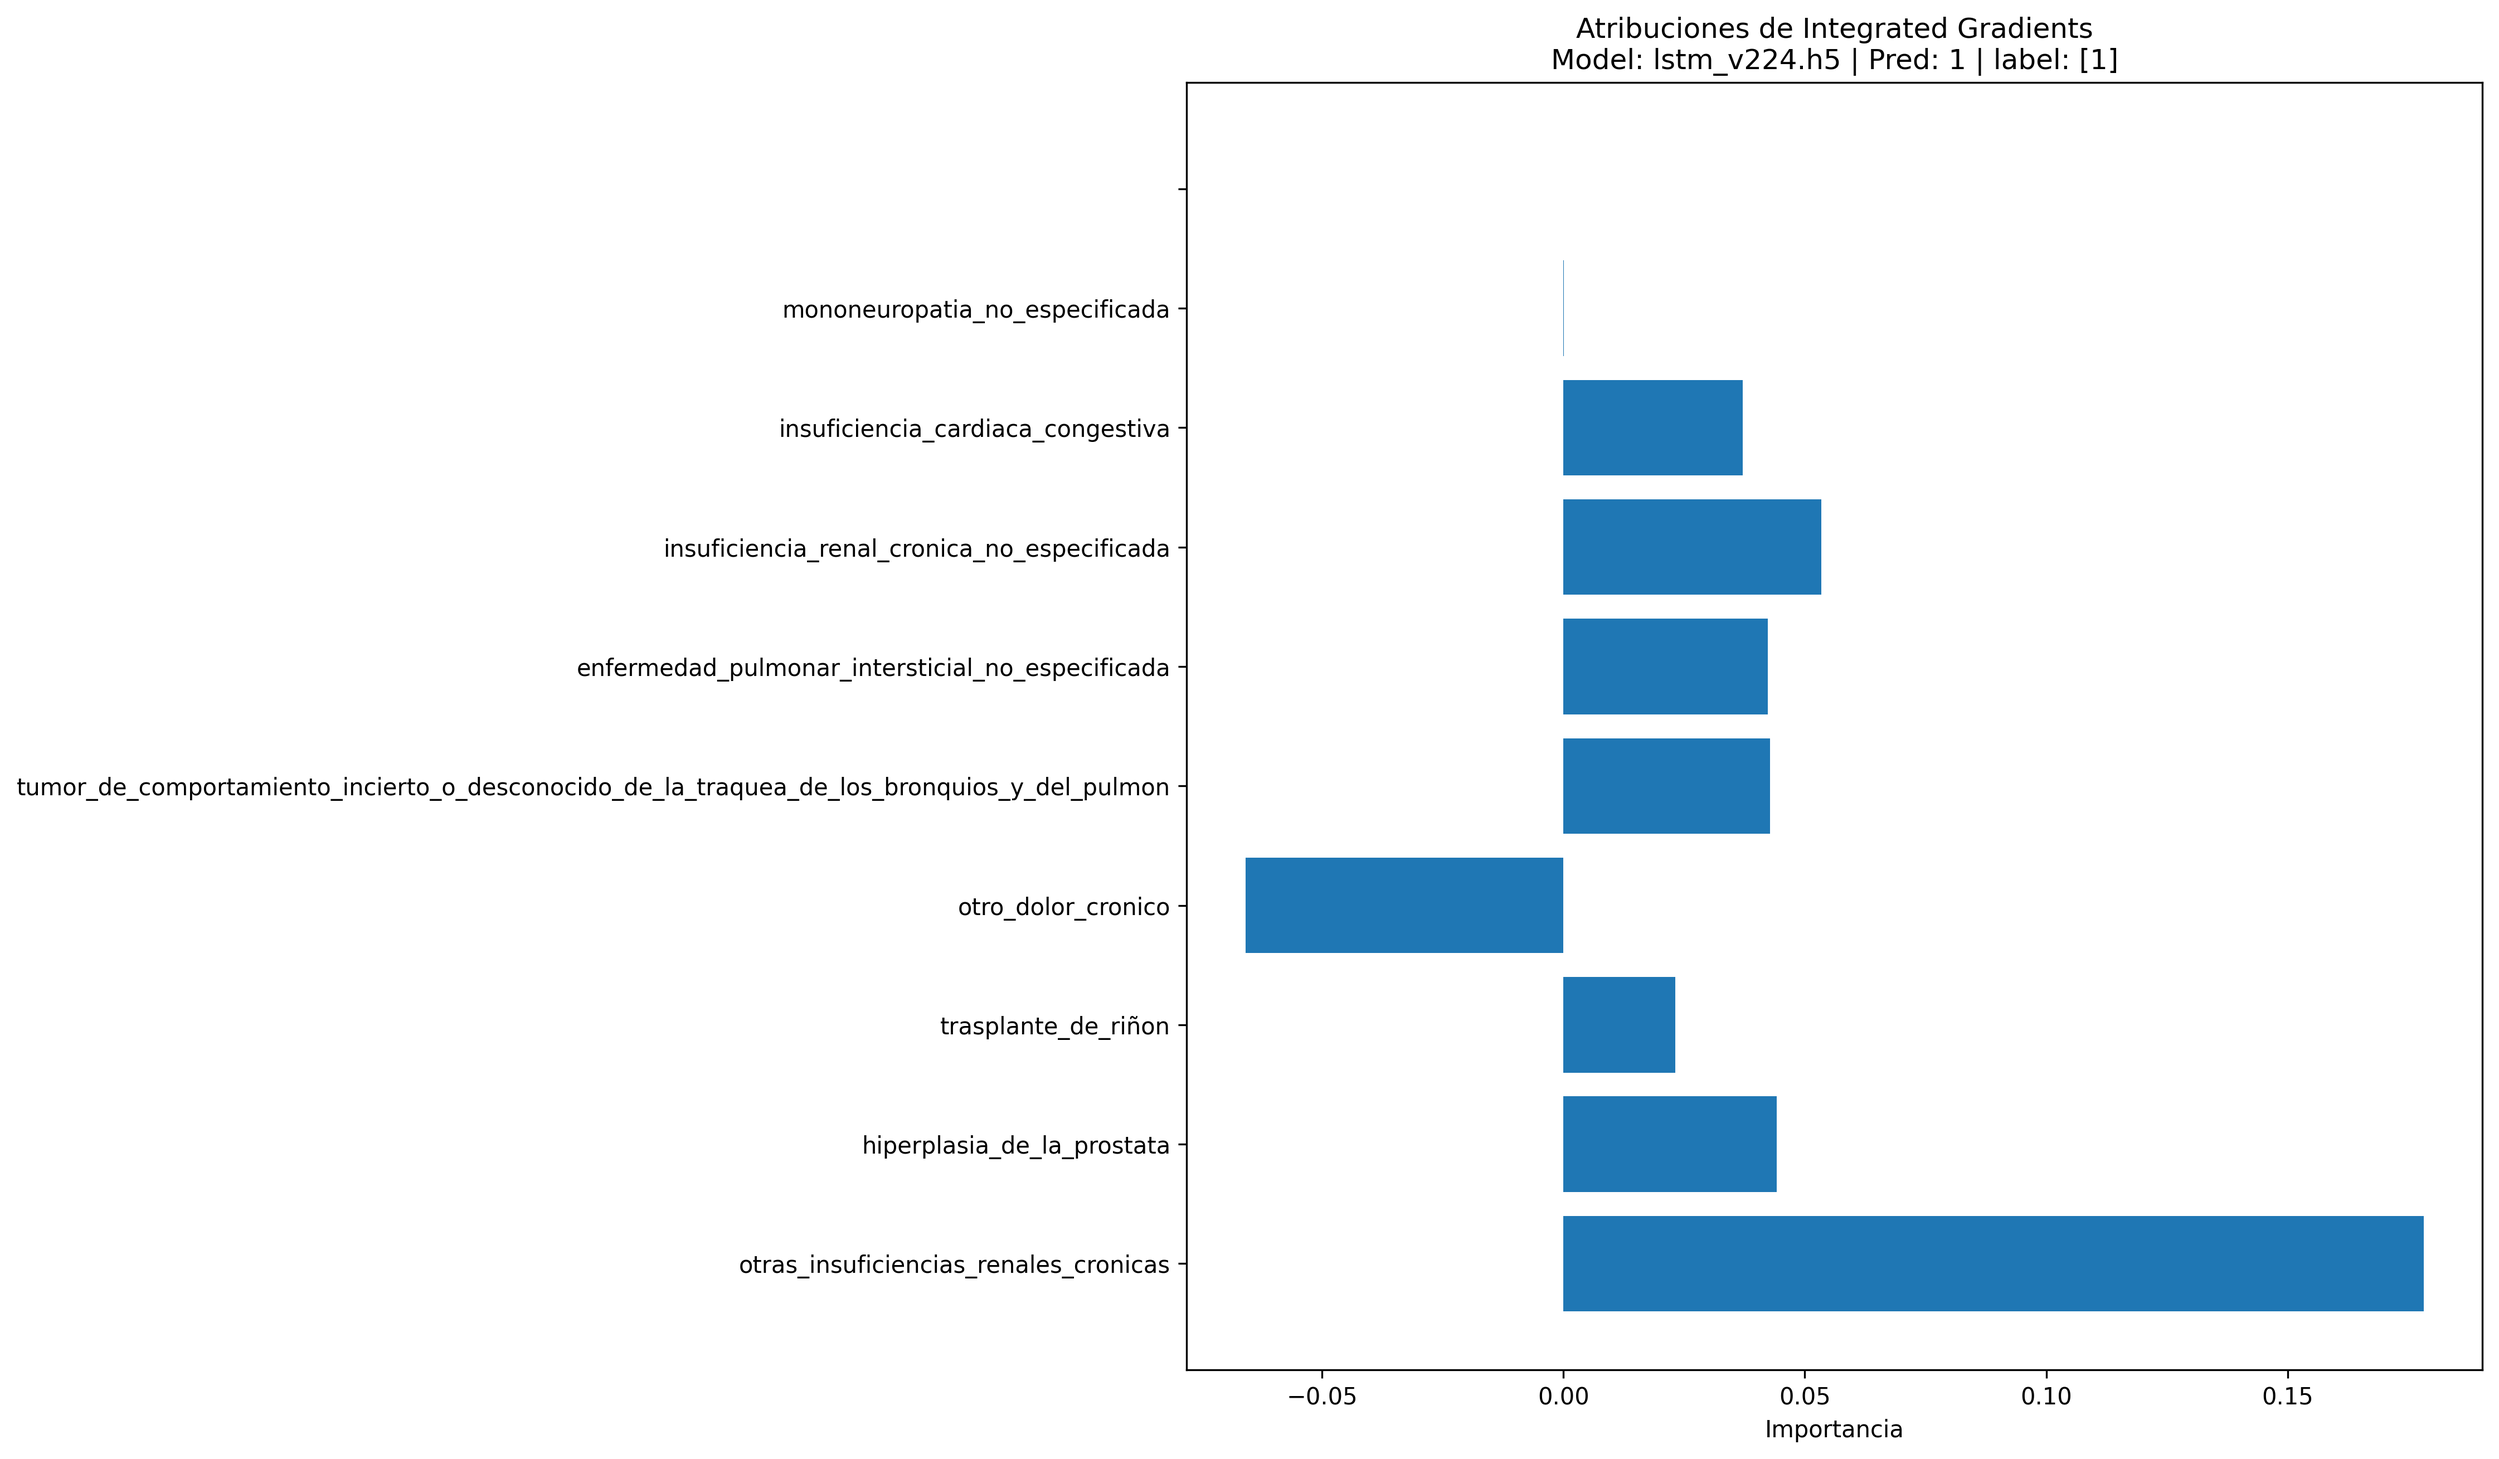
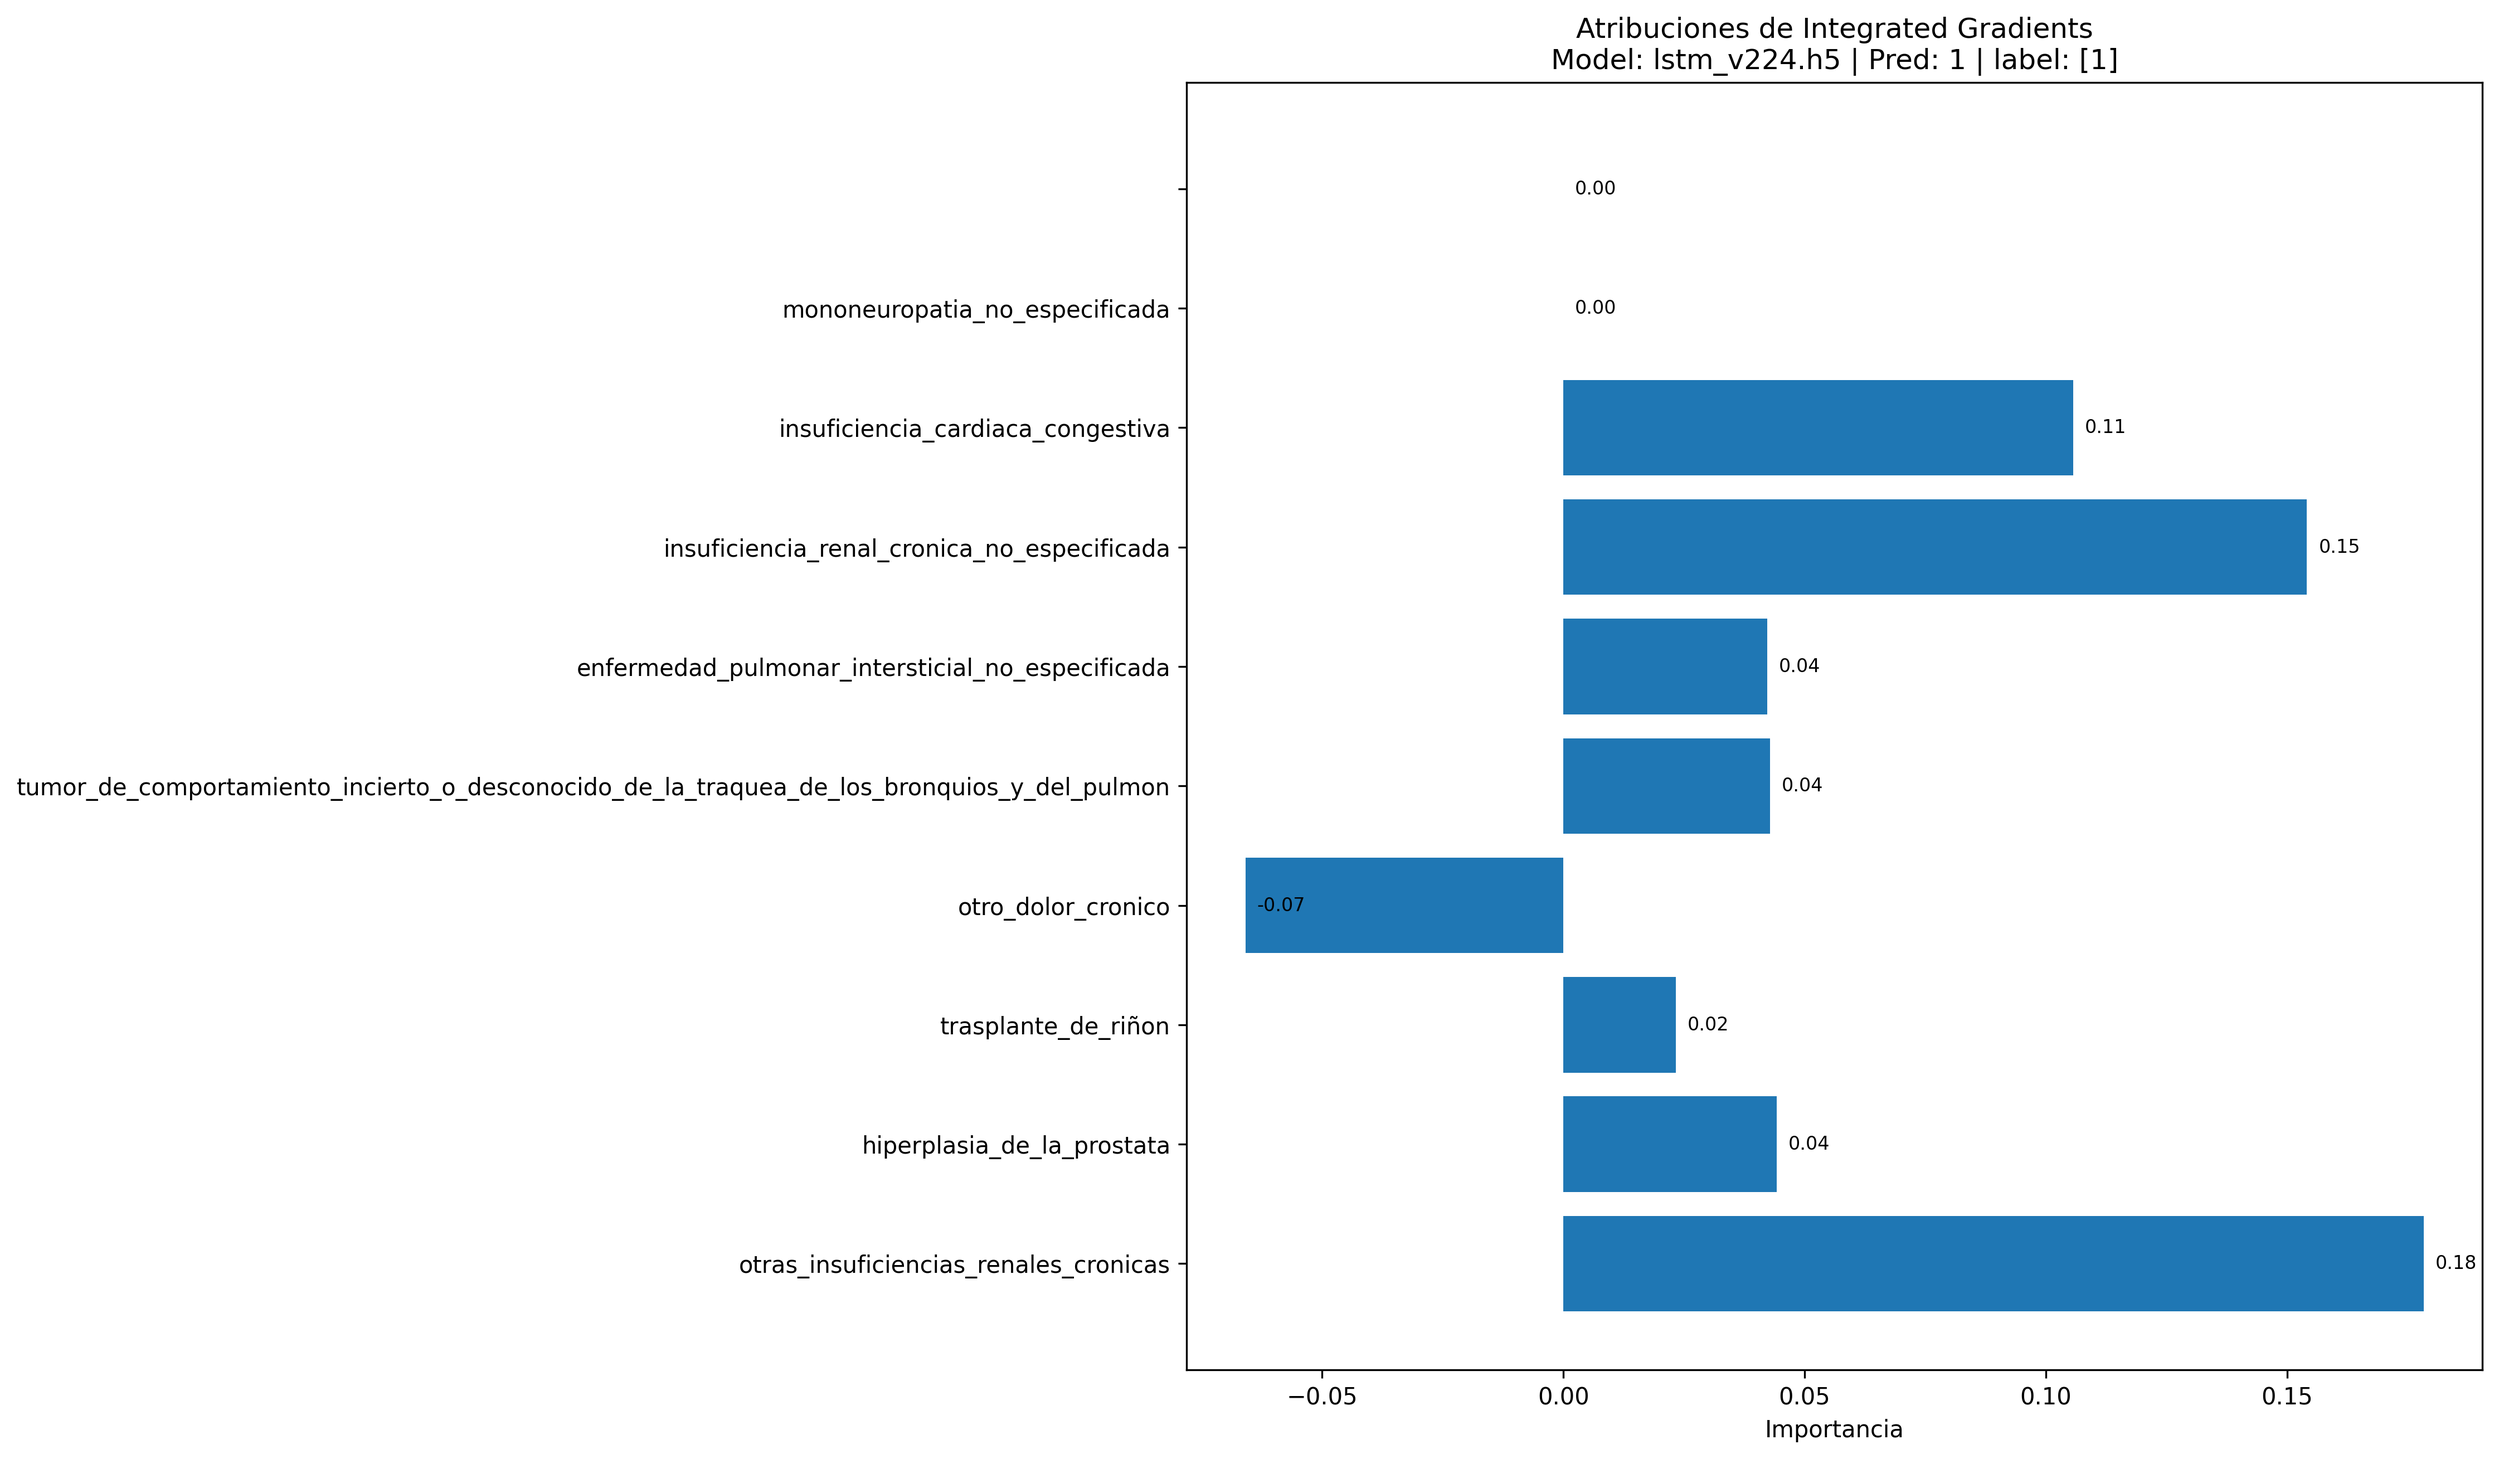
se ajustó para producir los gradientes de todas las predicciones

Changed region(s): [[0.6869, 0.2475, 0.9367, 0.4332]]

diff --git a/exp_lstm_v53.py b/exp_lstm_v53.py
@@ -91,11 +91,145 @@ def posiciones_de_uno(arr):
     """Devuelve las posiciones (índices) donde el valor es 1 en un array NumPy."""
     return np.where(arr == 1)[0]
 
+
+def sumar_por_valor(arr1, arr2):
+    """
+    Suma los valores de arr2 agrupados por el valor y posición correspondiente en arr1.
+    Retorna una lista de diccionarios con el valor de arr1 como clave y la suma de arr2 como valor.
+    Imprime k y v a medida que se agregan.
+    Ejemplo de retorno: [{k: suma}, ...]
+    """
+    if arr1.shape != arr2.shape:
+        raise ValueError("Los arreglos deben tener el mismo tamaño.")    
+    for k, v in zip(arr1, arr2):
+        encontrado = False
+        for d in lista_resultado:
+            if k in d:
+                d[k] += v
+                #print(f"Actualizando: {k} -> {d[k]}")
+                encontrado = True
+                break
+        if not encontrado:
+            lista_resultado.append({k: v})
+            #print(f"Agregando: {k} -> {v}")
+    return lista_resultado
+
+def importancia_acumulada(lista_diccionarios, nuevos_diccionarios):
+    """
+    Acumula la importancia de los valores de una lista de nuevos diccionarios en lista_diccionarios.
+    Si la clave ya existe, suma el valor; si no, la agrega.
+    Retorna la lista actualizada de diccionarios únicos.
+    """
+    # Convertir lista de diccionarios acumulados a un solo diccionario
+    acumulado = {}
+    for d in lista_diccionarios:
+        for k, v in d.items():
+            if k in acumulado:
+                acumulado[k] += v
+            else:
+                acumulado[k] = v
+    # Iterar sobre la lista de nuevos diccionarios y acumular
+    for d in nuevos_diccionarios:
+        for k, v in d.items():
+            if k in acumulado:
+                acumulado[k] += v
+            else:
+                acumulado[k] = v
+    # Convertir de nuevo a lista de diccionarios únicos
+    lista_resultado = [{k: acumulado[k]} for k in acumulado]
+    return lista_resultado
+
+def pintar_grafica_por_paciente(X_seq, token_imp, version, predictions, label, i):
+    """
+    Dibuja una gráfica de barras horizontales para las importancias de tokens de un paciente.
+    Muestra solo el valor sumado (por token único) al final de cada barra y guarda la imagen como archivo PNG.
+    """
+    import matplotlib.pyplot as plt
+
+    # Agrupar importancias por token único
+    from collections import defaultdict
+    suma_por_token = defaultdict(float)
+    for token, imp in zip(X_seq, token_imp):
+        suma_por_token[token] += imp
+
+    tokens_unicos = list(suma_por_token.keys())
+    importancias_sumadas = [suma_por_token[token] for token in tokens_unicos]
+
+    print("pintando la grafica")
+    fig, ax = plt.subplots(figsize=(10, 10))
+    bars = ax.barh(tokens_unicos, importancias_sumadas)
+    ax.set_xlabel('Importancia')
+    ax.set_title(f'Atribuciones de Integrated Gradients\nModel: {version} | Pred: {predictions} | label: {label}')
+
+    # Añadir solo el valor sumado al final de cada barra
+    for bar, suma in zip(bars, importancias_sumadas):
+        width = bar.get_width()
+        ax.annotate(f'{suma:.2f}',
+                    xy=(width, bar.get_y() + bar.get_height() / 2),
+                    xytext=(5, 0),
+                    textcoords="offset points",
+                    va='center',
+                    fontsize=8)
+
+    nombre_grafica = f"grafica_{version}_{i}.png"
+    print("nombre grafica:", nombre_grafica)
+    plt.savefig(nombre_grafica, dpi=300, bbox_inches='tight')
+    plt.close(fig)
+
+def graficar_lista_diccionarios(lista_diccionarios, titulo="Importancia acumulada", nombre_grafica="grafica_acumulada.png", vocabulary=None, top_n=None):
+    """
+    Grafica una lista de diccionarios donde los keys son las etiquetas (x) y los values son los valores (y).
+    Los datos se muestran de menor a mayor y se puede limitar el número de elementos mostrados con top_n.
+    """
+    import matplotlib.pyplot as plt
+    import numpy as np
+
+    # Unir todos los diccionarios en uno solo para evitar duplicados
+    datos = {}
+    for d in lista_diccionarios:
+        for k, v in d.items():
+            datos[k] = v
+
+    # Ordenar los datos de menor a mayor valor
+    datos_ordenados = sorted(datos.items(), key=lambda item: item[1])
+
+    # Si se especifica top_n, tomar solo los últimos top_n elementos (los de mayor valor)
+    if top_n is not None:
+        datos_ordenados = datos_ordenados[-top_n:]
+
+    etiquetas = [k for k, v in datos_ordenados]
+    valores = [v for k, v in datos_ordenados]
+
+    # Convertir etiquetas si hay vocabulario
+    if vocabulary is not None:
+        etiquetas_n = convert_to_text(np.array(etiquetas).reshape(1, -1), vocabulary)
+    else:
+        etiquetas_n = etiquetas
+
+    fig, ax = plt.subplots(figsize=(10, 10))
+    bars = ax.barh(etiquetas_n, valores)
+    ax.set_xlabel('Importancia')
+    ax.set_title(titulo)
+
+    # Añadir el valor al final de cada barra
+    for bar, valor in zip(bars, valores):
+        width = bar.get_width()
+        ax.annotate(f'{valor:.2f}',
+                    xy=(width, bar.get_y() + bar.get_height() / 2),
+                    xytext=(5, 0),
+                    textcoords="offset points",
+                    va='center',
+                    fontsize=8)
+
+    plt.tight_layout()
+    plt.savefig(nombre_grafica, dpi=300, bbox_inches='tight')
+    plt.close(fig)
+    print(f"Gráfica guardada como {nombre_grafica}")
+
 if __name__ == "__main__":
     
     version = "lstm_v224.h5"
-    #145, 178, 171, 184
-    i = 187
+
     ruta_modelo = "./models/"+version
     ruta_performance = "/home/pajaro/compu_Pipe_V3/performance_zine/performance_report.csv"    
     
@@ -110,8 +244,11 @@ if __name__ == "__main__":
     print("folder_n:", folder_n)
 
     vocabulary = load_numpy_array(folder_n + "vocab.npy")
+    print("vocabulary size:", len(vocabulary))
     X_train = load_numpy_array(folder_n + "X_train.npy")
+    print("X_train shape:", X_train.shape)
     X_test = load_numpy_array(folder_n + "X_test.npy")
+    print("X_test shape:", X_test.shape)
     y_train = load_numpy_array(folder_n + "y_train.npy")
     y_test = load_numpy_array(folder_n + "y_test.npy")
     print("y_test", y_test)
@@ -124,63 +261,88 @@ if __name__ == "__main__":
     model.summary()
 
     #print(X_train[:10, :])
+
+    l_patient = [145, 178, 171, 184, 179, 187]
+    #l_patient = [145, 178]
+    #i = 187
+    l_patient = np.arange(len(X_train)).tolist()
+    lista_resultado = []
+
+    for i in l_patient:
+        print("i:", i)
+        X_sample = X_train[i:i+1, :]
+        print("X_sample shape:", X_sample.shape)    
+        predictions = model.predict(X_sample)
+        print("predictions shape:", predictions.shape)
+        print(predictions)
+        predictions = (predictions >= 0.5).astype(int)
+        predictions = predictions.item()
+        #predictions = predictions[1]
+        #print("pred:", predictions)
+        #print("pred shape:", predictions.shape)
+        #print("target:", y_train[i:i+1])
+        label = y_train[i:i+1]
+
+        t_pred = model.predict(X_train)
+        #t_pred = t_pred.argmax(axis=1)
+        t_pred = (t_pred >= 0.5).astype(int)
+        #print("t_pred:", t_pred)
+        print("t_pred shape:", t_pred.shape)
+        #print("t_pred count unique:", np.unique(t_pred, return_counts=True))
+
+        # 6. Ejecutar IG
+        embedding_layer = model.layers[0]
+        #embedding_layer = model.get_layer('embedding_1')
+        print("cargue de Integrated Gradients")
+        ig = load_model_ig(model, embedding_layer)
+        # 7. Explicación
+        base = np.zeros_like(X_sample, dtype=np.float32)
+        print("calculando la explicacion")    
+        explanation = ig.explain(X_sample, baselines=0, target=predictions)
+
+        # 7. Visualizar las atribuciones
+        print("calculando las atribuciones")
+        attributions = explanation.attributions[0]  # (100, embedding_dim)
+        print('Attributions shape:', attributions.shape)
+        token_importances = np.sum(attributions, axis=-1)  # suma por embedding
+        print('Token importances shape:', token_importances.shape)
+        # Asegurarse de que token_importances es un array 1D
+        token_imp = np.array(token_importances).flatten()
+        print('Token_imp shape:', token_imp.shape)
+        #attrs = attributions.sum(axis=2)
+        #print('Attrs shape:', attrs.shape)    
+        
+        print("X_sample", X_sample)
+        X_seq = convert_to_text(X_sample, vocabulary)
+        print("X_seq:", X_seq)
+        #print("X_seq type:", type(X_seq))
+        print("X_seq shape:", len(X_seq))
+        #print("X_seq set:", set(X_seq))
+        print("X_seq_set len:", len(set(X_seq)))    
+        #attrs = token_imp[i]
+
+        X_sample_f = X_sample.flatten()
+        print("X_sample_f:", X_sample_f.shape)
+        lista_resultado = sumar_por_valor(X_sample_f, token_imp)
+        print("l_phe_patient:", lista_resultado)        
+
+
+        """
+        print("pintando la grafica")
+        fig, ax = plt.subplots(figsize=(10, 10))
+        ax.barh(X_seq, token_imp)
+        ax.set_xlabel('Importancia')
+        ax.set_title(f'Atribuciones de Integrated Gradients\nModel: {version} | Pred: {predictions} | label: {label}')
+        print("nombre grafica:", "grafica_"+version+"_"+str(i)+".png")
+        plt.savefig("grafica_"+version+"_"+str(i)+".png", dpi=300, bbox_inches='tight')
+        #plt.show()
+        """
+
+        pintar_grafica_por_paciente(X_seq, token_imp, version, predictions, label, i)
+
+    graficar_lista_diccionarios(lista_resultado, titulo="Atribucion global de conceptos", nombre_grafica="grafica_fenotipos_importantes.png", vocabulary=vocabulary, top_n=20)
+
+
     
-    X_sample = X_train[i:i+1, :]
-    print("X_sample shape:", X_sample.shape)    
-    predictions = model.predict(X_sample)
-    print("predictions shape:", predictions.shape)
-    print(predictions)
-    predictions = (predictions >= 0.5).astype(int)
-    predictions = predictions.item()
-    #predictions = predictions[1]
-    print("pred:", predictions)
-    #print("pred shape:", predictions.shape)
-    print("target:", y_train[i:i+1])
-    label = y_train[i:i+1]
 
-    t_pred = model.predict(X_train)
-    #t_pred = t_pred.argmax(axis=1)
-    t_pred = (t_pred >= 0.5).astype(int)
-    #print("t_pred:", t_pred)
-    print("t_pred shape:", t_pred.shape)
-    print("t_pred count unique:", np.unique(t_pred, return_counts=True))
-
-    # 6. Ejecutar IG
-    embedding_layer = model.layers[0]
-    #embedding_layer = model.get_layer('embedding_1')
-    print("cargue de Integrated Gradients")
-    ig = load_model_ig(model, embedding_layer)
-    # 7. Explicación
-    base = np.zeros_like(X_sample, dtype=np.float32)
-    print("calculando la explicacion")    
-    explanation = ig.explain(X_sample, baselines=0, target=predictions)
-
-    # 7. Visualizar las atribuciones
-    print("calculando las atribuciones")
-    attributions = explanation.attributions[0]  # (100, embedding_dim)
-    print('Attributions shape:', attributions.shape)
-    token_importances = np.sum(attributions, axis=-1)  # suma por embedding
-    print('Token importances shape:', token_importances.shape)
-    # Asegurarse de que token_importances es un array 1D
-    token_imp = np.array(token_importances).flatten()
-    #attrs = attributions.sum(axis=2)
-    #print('Attrs shape:', attrs.shape)    
-
-    
-    print("X_sample", X_sample)
-    X_seq = convert_to_text(X_sample, vocabulary)
-    print("X_seq:", X_seq)
-    print("X_seq shape:", len(X_seq))
-    print("X_seq set:", set(X_seq))
-    #attrs = token_imp[i]
-
-
-    print("pintando la grafica")
-    fig, ax = plt.subplots(figsize=(10, 10))
-    ax.barh(X_seq, token_imp)
-    ax.set_xlabel('Importancia')
-    ax.set_title(f'Atribuciones de Integrated Gradients\nModel: {version} | Pred: {predictions} | label: {label}')
-    print("nombre grafica:", "grafica_"+version+"_"+str(i)+".png")
-    plt.savefig("grafica_"+version+"_"+str(i)+".png", dpi=300, bbox_inches='tight')
-    #plt.show()
 
